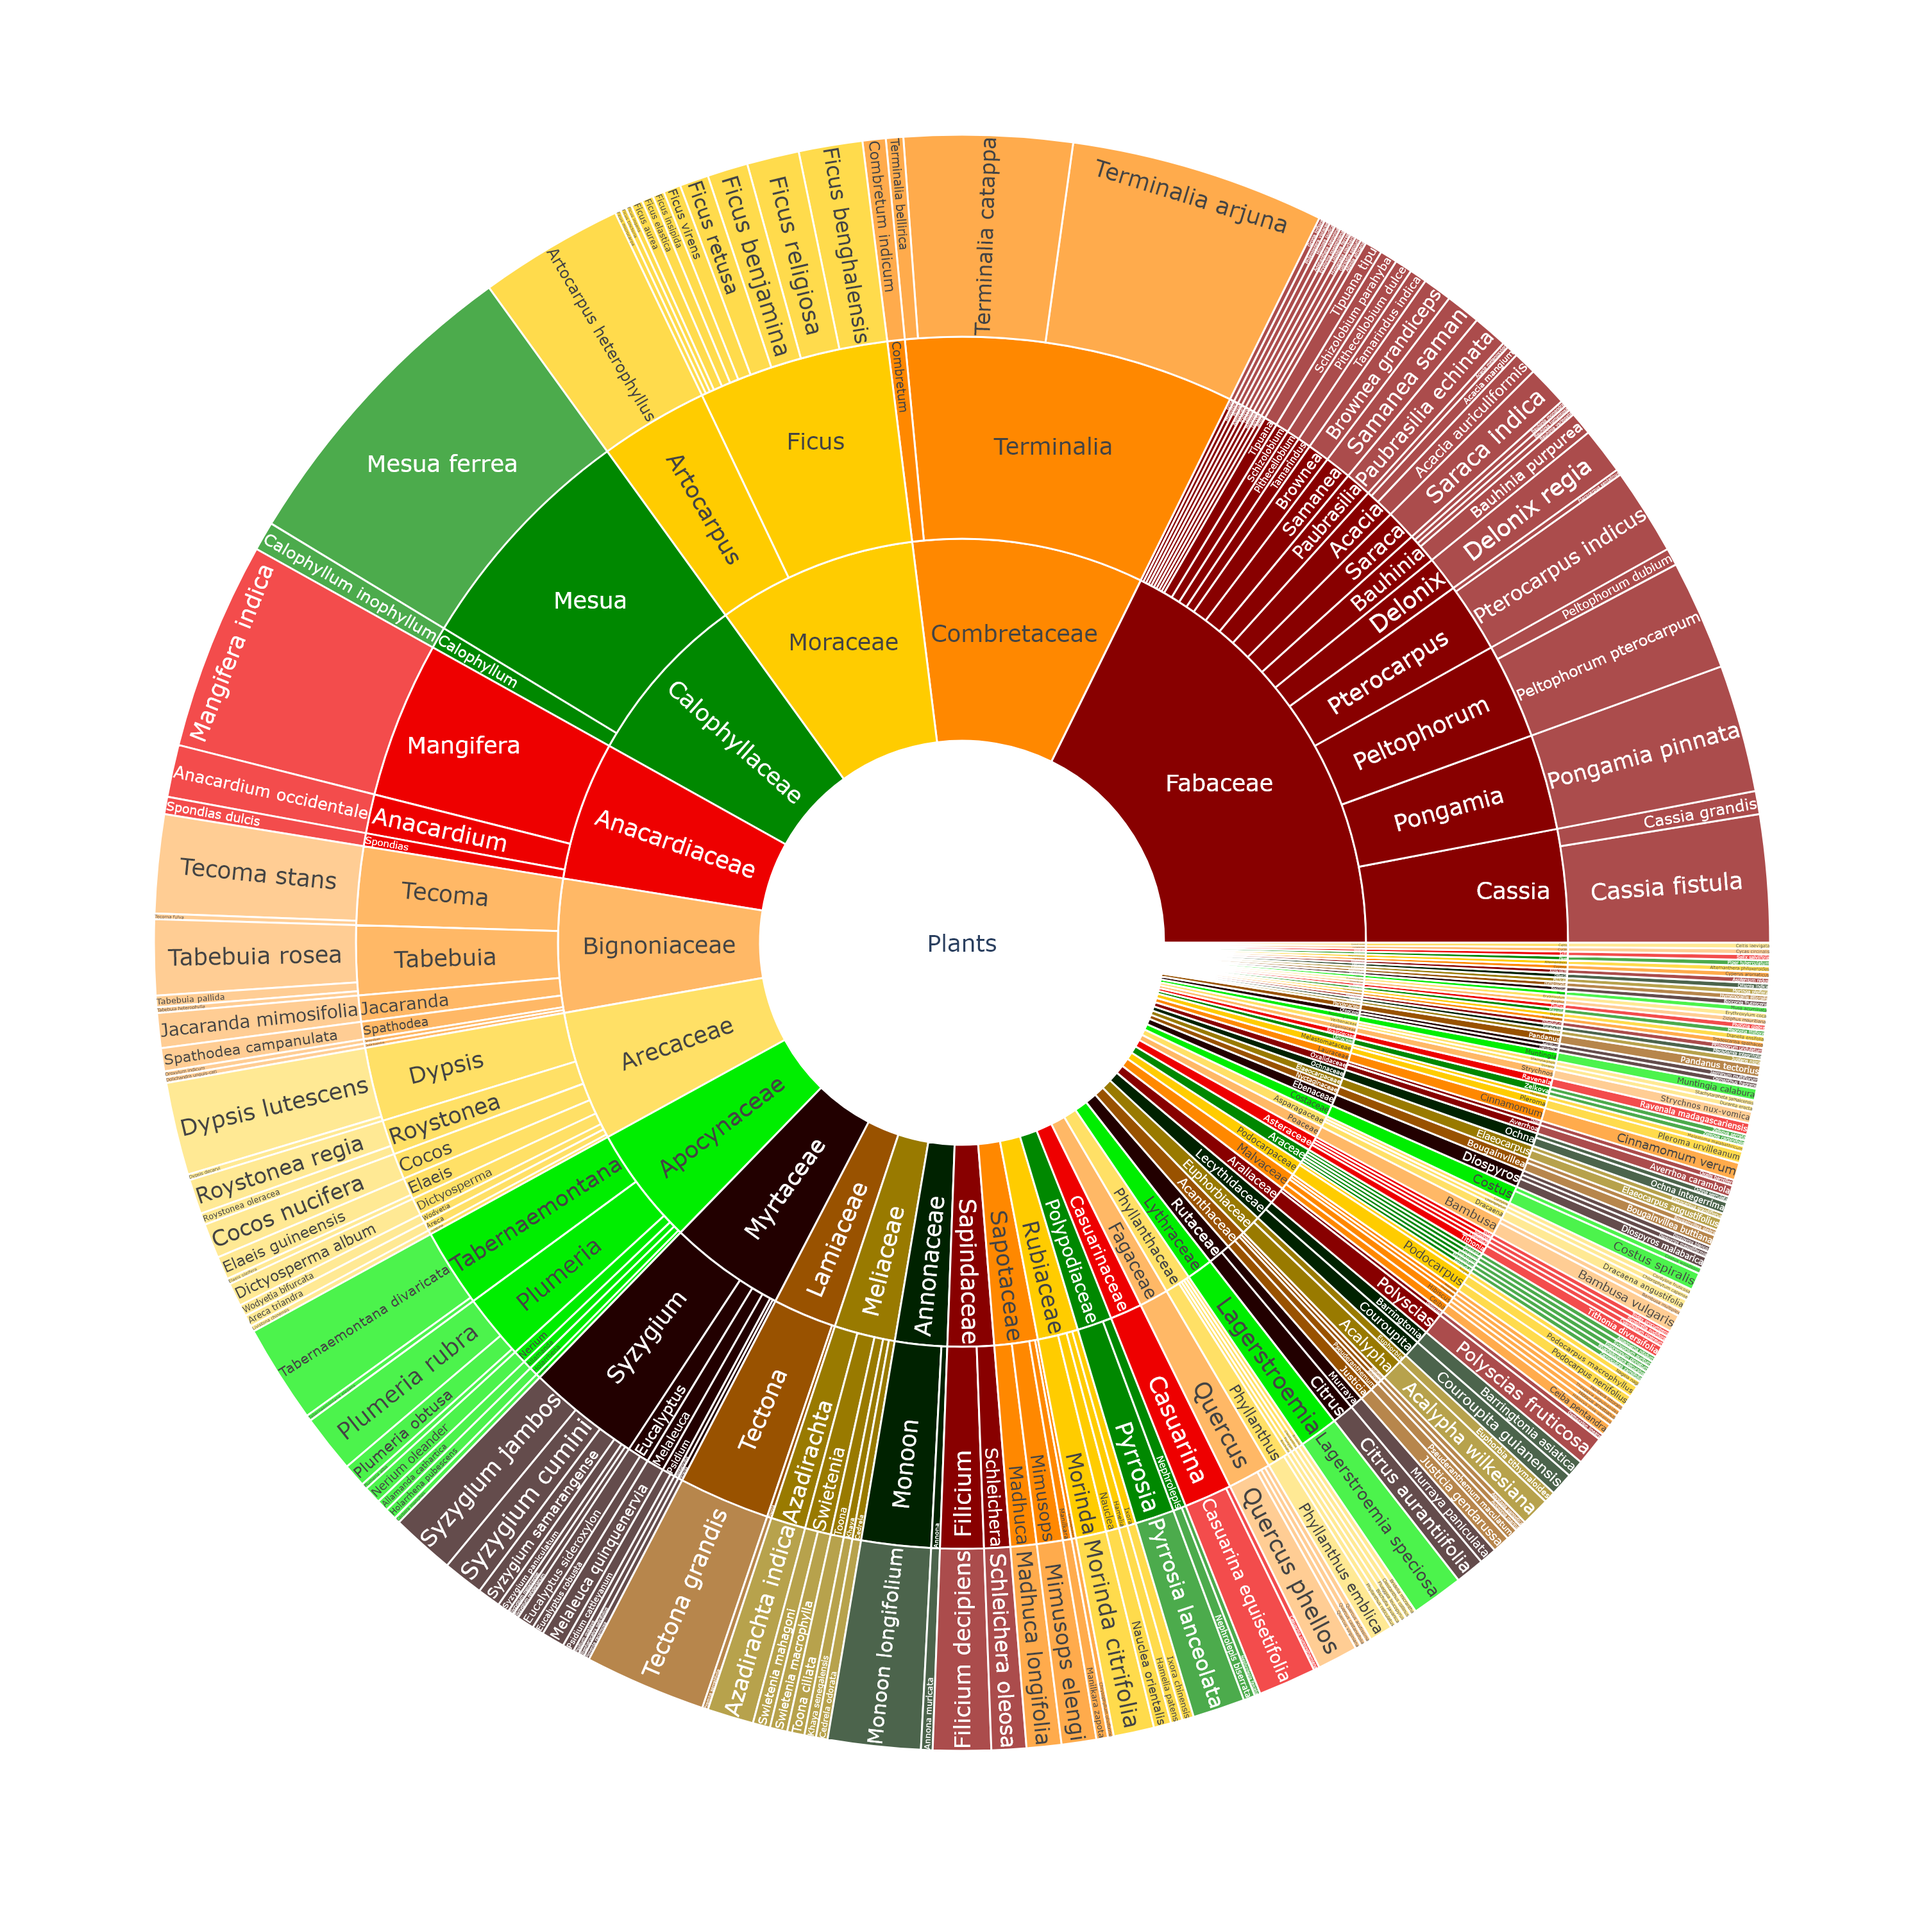
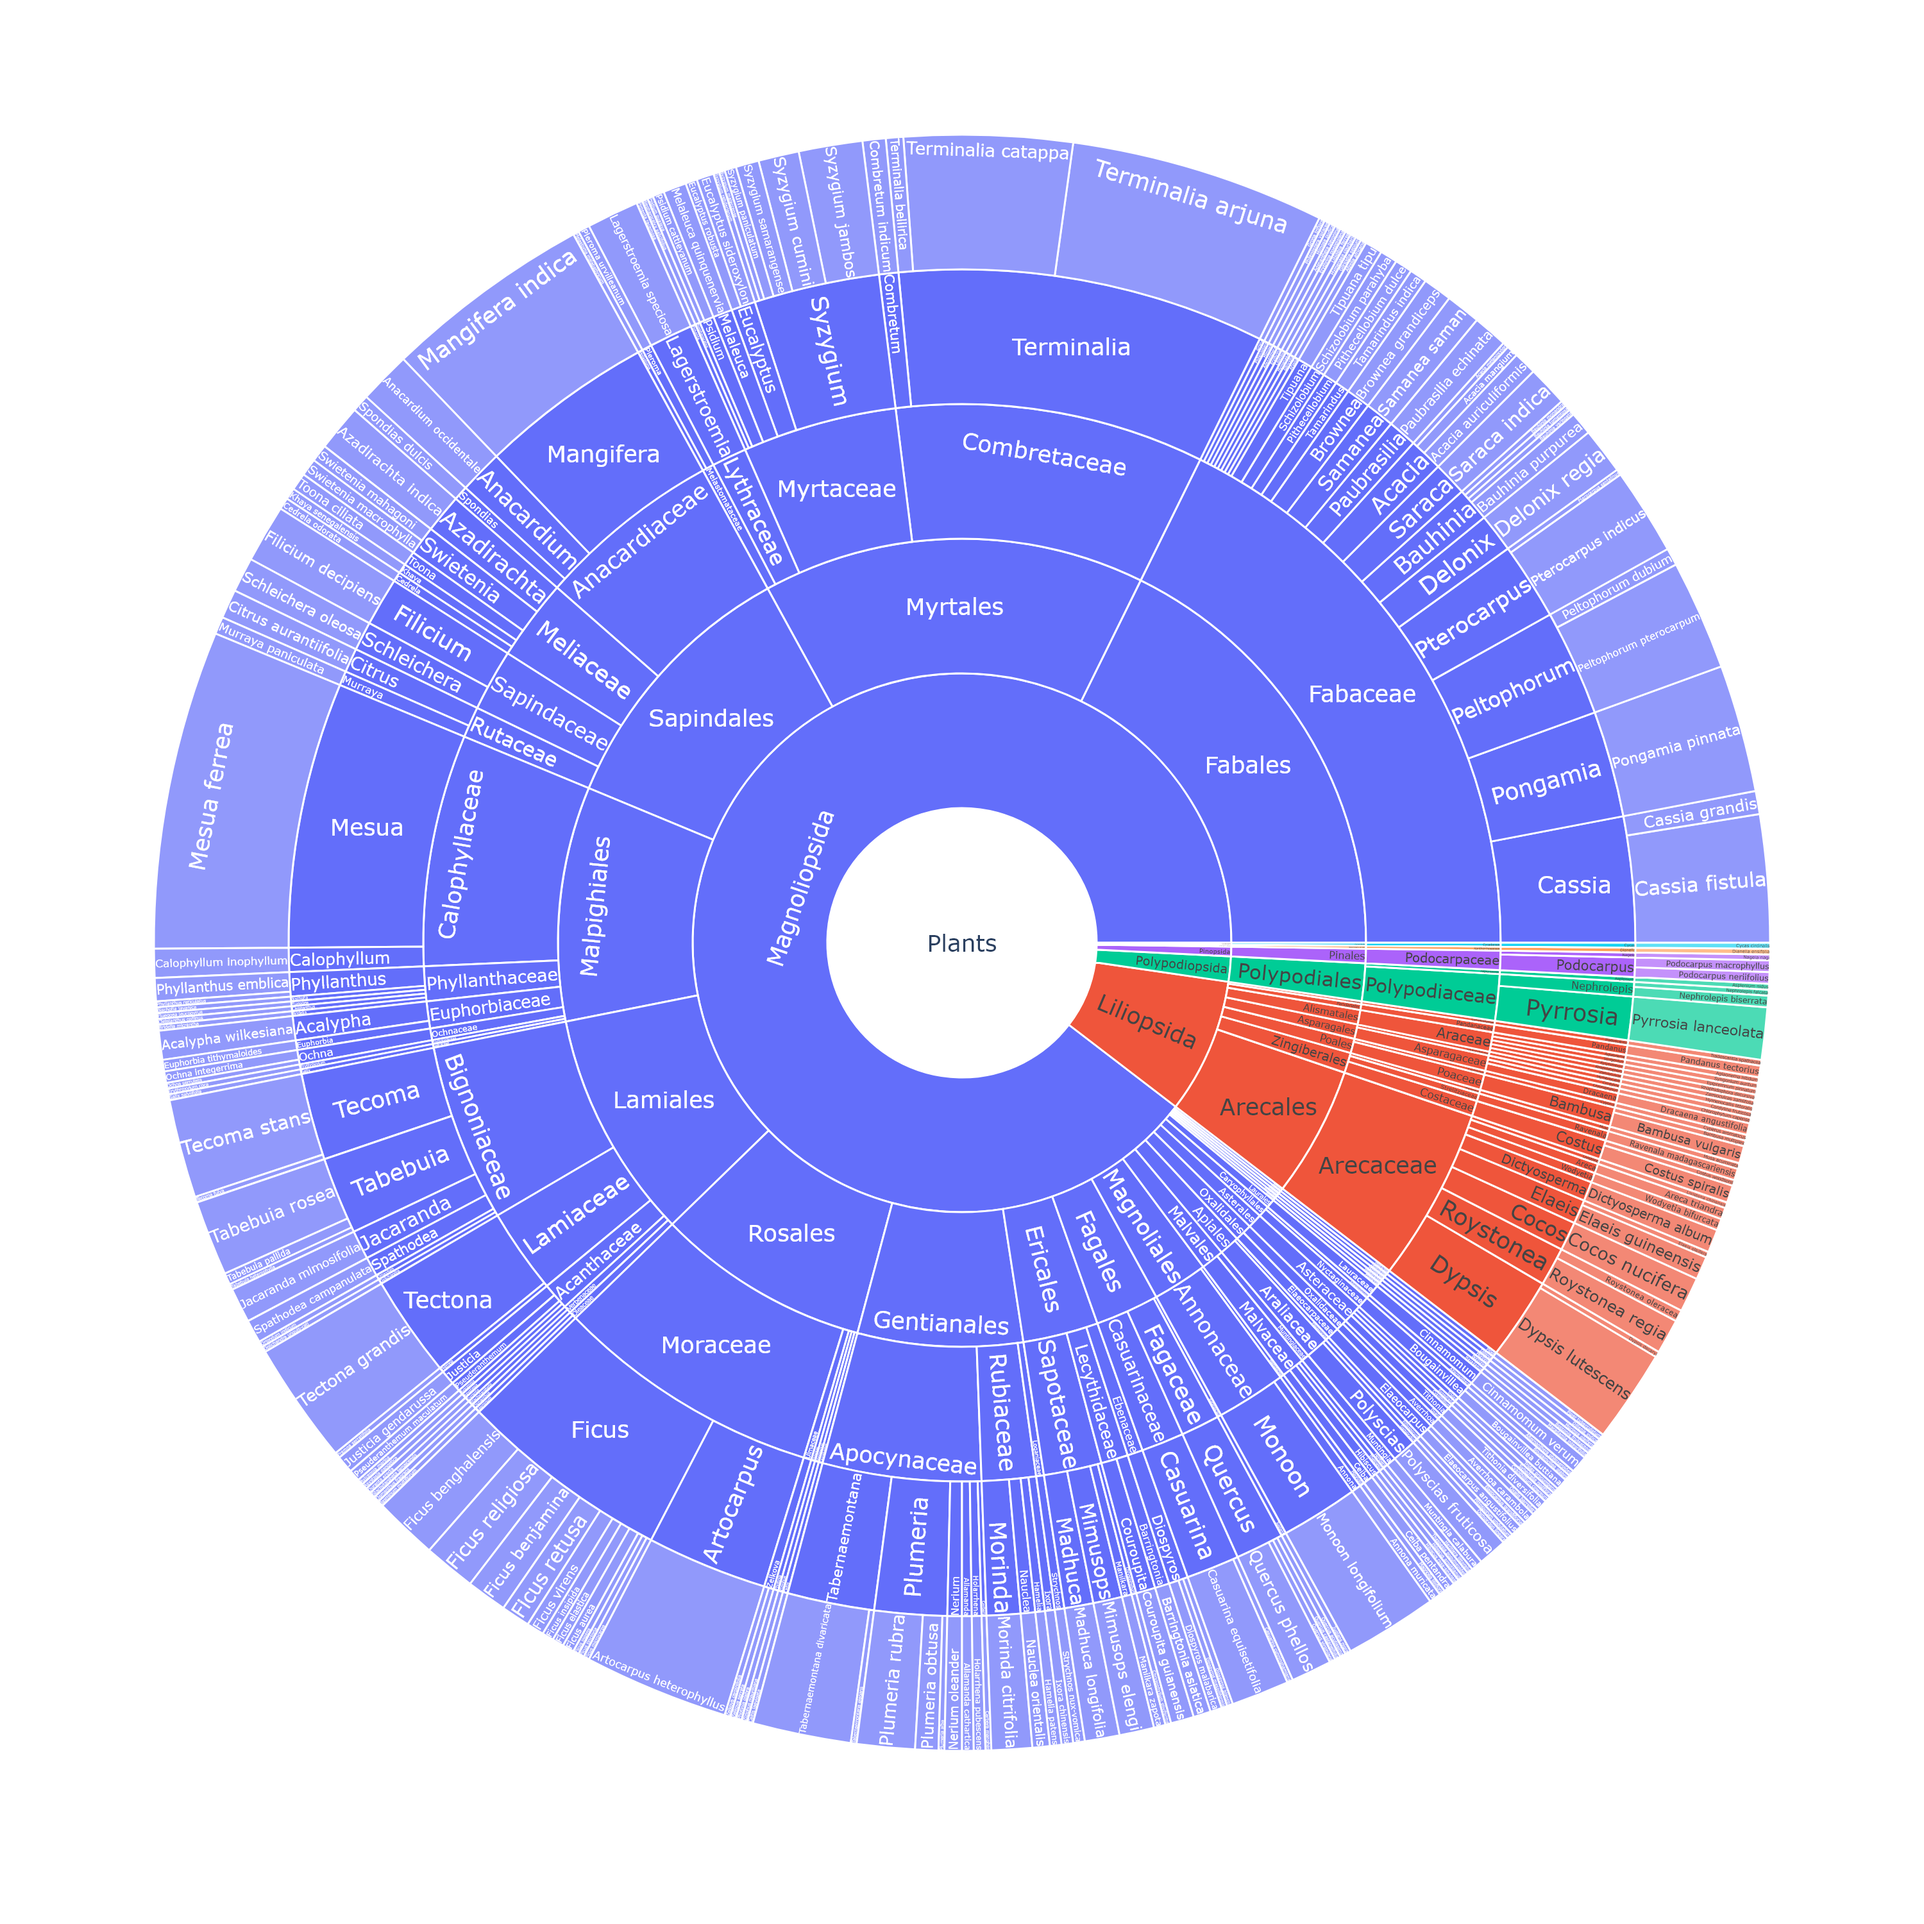
various

diff --git a/src/lk_plants/analysis/readme_pages/ReadMeSunburst.py b/src/lk_plants/analysis/readme_pages/ReadMeSunburst.py
@@ -36,22 +36,32 @@ class ReadMeSunburst(MarkdownPage, InfoReadMe):
             species_name = species.name
             genus_name = species.genus.name
             family_name = species.genus.family.name
+            order_name = species.genus.family.order.name
+            classis_name = species.genus.family.order.classis.name
 
             n_total += 1
             if species_name not in species_name_to_info:
-                species_name_to_info[species_name] = [genus_name, family_name]
+                species_name_to_info[species_name] = [genus_name, family_name, order_name, classis_name]
 
             if species_name not in taxon_to_n:
                 taxon_to_n[species_name] = 0
             taxon_to_n[species_name] += 1
 
+            if genus_name not in taxon_to_n:
+                taxon_to_n[genus_name] = 0
+            taxon_to_n[genus_name] += 1
+
             if family_name not in taxon_to_n:
                 taxon_to_n[family_name] = 0
             taxon_to_n[family_name] += 1
 
-            if genus_name not in taxon_to_n:
-                taxon_to_n[genus_name] = 0
-            taxon_to_n[genus_name] += 1
+            if order_name not in taxon_to_n:
+                taxon_to_n[order_name] = 0  
+            taxon_to_n[order_name] += 1
+            
+            if classis_name not in taxon_to_n:
+                taxon_to_n[classis_name] = 0  
+            taxon_to_n[classis_name] += 1
 
         categories = []
         parents = []
@@ -63,17 +73,36 @@ class ReadMeSunburst(MarkdownPage, InfoReadMe):
         values.append(n_total)
 
         parse_set = set()
+
         for species_name, info in species_name_to_info.items():
-            [genus_name, family_name] = info
+            [genus_name, family_name, order_name, classis_name] = info
+            if classis_name in parse_set:
+                continue
+            parse_set.add(classis_name)
+            categories.append(classis_name)
+            parents.append(ROOT_CATEGORY_NAME)
+            values.append(taxon_to_n[classis_name])
+
+        for species_name, info in species_name_to_info.items():
+            [genus_name, family_name, order_name, classis_name] = info
+            if order_name in parse_set:
+                continue
+            parse_set.add(order_name)
+            categories.append(order_name)
+            parents.append(classis_name)
+            values.append(taxon_to_n[order_name])
+
+        for species_name, info in species_name_to_info.items():
+            [genus_name, family_name, order_name, classis_name] = info
             if family_name in parse_set:
                 continue
             parse_set.add(family_name)
             categories.append(family_name)
-            parents.append(ROOT_CATEGORY_NAME)
+            parents.append(order_name)
             values.append(taxon_to_n[family_name])
 
         for species_name, info in species_name_to_info.items():
-            [genus_name, family_name] = info
+            [genus_name, family_name, order_name, classis_name] = info
             if genus_name in parse_set:
                 continue
             parse_set.add(genus_name)
@@ -82,7 +111,7 @@ class ReadMeSunburst(MarkdownPage, InfoReadMe):
             values.append(taxon_to_n[genus_name])
 
         for species_name, info in species_name_to_info.items():
-            [genus_name, family_name] = info
+            [genus_name, family_name, order_name, classis_name] = info
             categories.append(species_name)
             parents.append(genus_name)
             values.append(taxon_to_n[species_name])
@@ -102,7 +131,7 @@ class ReadMeSunburst(MarkdownPage, InfoReadMe):
             names='categories',
             parents='parent',
             values='value',
-            color_discrete_sequence=['#800', '#f80', '#fc0', '#080'],
+            # color_discrete_sequence=['#800', '#f80', '#fc0', '#080'],
             branchvalues='total',
         )
 
@@ -112,6 +141,7 @@ class ReadMeSunburst(MarkdownPage, InfoReadMe):
         image_path = os.path.join('images', 'sunburst.png')
         pio.write_image(fig, image_path, scale=3)
         log.info(f'Wrote {image_path}')
+        os.startfile(image_path)
 
         return Markdown.image(image_path, image_path)
 

diff --git a/src/lk_plants/core/taxonomy/Taxon.py b/src/lk_plants/core/taxonomy/Taxon.py
@@ -41,13 +41,15 @@ class Taxon:
     def write(self):
         if (
             not os.path.exists(self.data_path)
-            or self.__class__.__name__ == 'Family'
+     
         ):
             JSONFile(self.data_path).write(self.to_dict())
             log.info(f'Wrote {self.data_path}')
 
     @classmethod
     def from_name(cls, name: str):
+        if name is None:
+            return cls.unknown()
         data_path = cls.get_data_path(name)
         d = JSONFile(data_path).read()
         return cls.from_dict(d)
@@ -75,3 +77,4 @@ class Taxon:
     @cached_property
     def wiki_page_name(self) -> str:
         return self.name.replace(' ', '_')
+

diff --git a/src/lk_plants/core/taxonomy/Kingdom.py b/src/lk_plants/core/taxonomy/Kingdom.py
@@ -9,6 +9,9 @@ from lk_plants.core.taxonomy.Taxon import Taxon
 class Kingdom(Taxon):
     domain: Domain
 
+    @classmethod
+    def unknown(cls):
+        return cls(name='unknown', domain=Domain.EUKARYOTA)
     def to_dict(self):
         return dict(
             name=self.name,
@@ -17,8 +20,8 @@ class Kingdom(Taxon):
 
     @staticmethod
     def from_dict(d):
-        return Domain(
-            name=d['name'], domain=Domain.from_name(d['domain_name'])
+        return Kingdom(
+            name=d['name'], domain=Domain.EUKARYOTA
         )
 
     @staticmethod

diff --git a/src/lk_plants/core/taxonomy/Classis.py b/src/lk_plants/core/taxonomy/Classis.py
@@ -9,6 +9,9 @@ from lk_plants.core.taxonomy.Taxon import Taxon
 class Classis(Taxon):
     phylum: Phylum
 
+    @classmethod
+    def unknown(cls):
+        return cls(name='unknown-classis', phylum=Phylum.unknown())
     def to_dict(self):
         return dict(
             name=self.name,
@@ -17,7 +20,7 @@ class Classis(Taxon):
 
     @staticmethod
     def from_dict(d):
-        return Phylum(
+        return Classis(
             name=d['name'], phylum=Phylum.from_name(d['phylum_name'])
         )
 

diff --git a/src/lk_plants/core/taxonomy/Phylum.py b/src/lk_plants/core/taxonomy/Phylum.py
@@ -9,6 +9,10 @@ from lk_plants.core.taxonomy.Taxon import Taxon
 class Phylum(Taxon):
     kingdom: Kingdom
 
+    @classmethod
+    def unknown(cls):
+        return cls(name='unknown', kingdom=Kingdom.unknown())
+
     def to_dict(self):
         return dict(
             name=self.name,
@@ -17,7 +21,7 @@ class Phylum(Taxon):
 
     @staticmethod
     def from_dict(d):
-        return Kingdom(
+        return Phylum(
             name=d['name'], kingdom=Kingdom.from_name(d['kingdom_name'])
         )
 

diff --git a/src/lk_plants/core/taxonomy/Family.py b/src/lk_plants/core/taxonomy/Family.py
@@ -20,12 +20,11 @@ class Family(Taxon):
 
     @staticmethod
     def from_dict(d):
+
         return Family(
             name=d['name'],
             authorship=d['authorship'],
-            order=Order.from_name(d['order_name'])
-            if 'order_name ' in d
-            else '',
+            order=Order.from_name(d.get('order_name'))
         )
 
     @staticmethod

diff --git a/src/lk_plants/core/gbif/GBIF.py b/src/lk_plants/core/gbif/GBIF.py
@@ -52,7 +52,7 @@ class GBIF:
                 species=gbif_data['species'],
             )
         except Exception as e:
-            print(gbif_data)
+
             raise Exception(f"Failed to get data: {e}")
         observed_species = data['canonical_name']
         if observed_species != self.species_name:

diff --git a/workflows/pipeline_test.py b/workflows/pipeline_test.py
@@ -1,10 +1,8 @@
-from lk_plants import ReadMeAbout, ReadMeFunnel, ReadMeFunnelByDay
+from lk_plants import ReadMeSunburst
 
 
 def test_main():
-    ReadMeAbout().write()
-    ReadMeFunnel().write()
-    ReadMeFunnelByDay().write()
+    ReadMeSunburst().write()    
 
 
 if __name__ == "__main__":

diff --git a/src/lk_plants/core/taxonomy/Order.py b/src/lk_plants/core/taxonomy/Order.py
@@ -9,6 +9,10 @@ from lk_plants.core.taxonomy.Taxon import Taxon
 class Order(Taxon):
     classis: Classis
 
+    @classmethod
+    def unknown(cls):
+        return cls(name='unknown-order', classis=Classis.unknown())
+
     def to_dict(self):
         return dict(
             name=self.name,

diff --git a/README.sunburst.md b/README.sunburst.md
@@ -1,0 +1,5 @@
+## Overview of Taxonomies
+
+This sunburst chart shows the distribution of plant photos, by family, genus and species, weighted by number of trees.
+
+![images\sunburst.png](images/sunburst.png)
